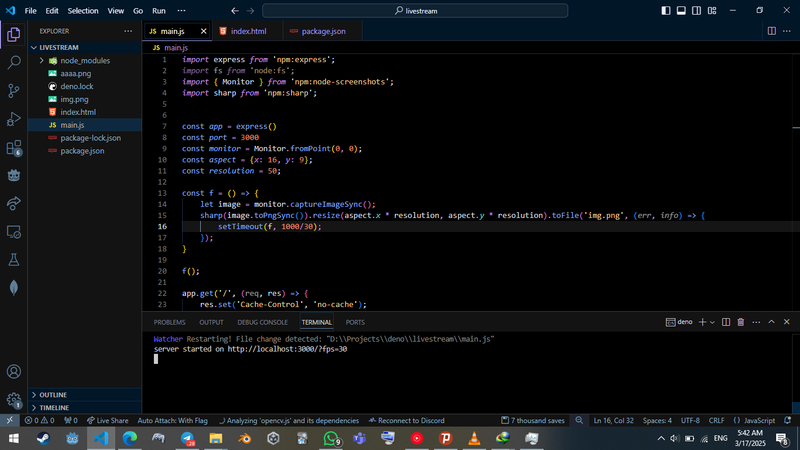
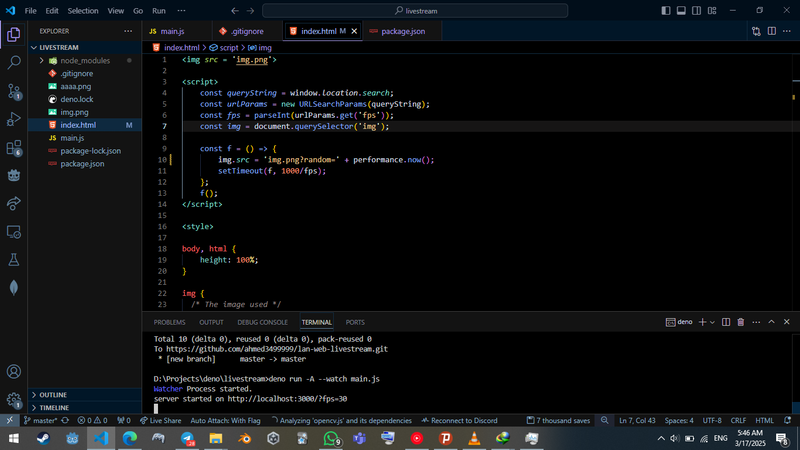
fixed updated image source in html to make it independent of ip

diff --git a/index.html b/index.html
@@ -7,7 +7,7 @@
     const img = document.querySelector('img');
     
     const f = () => {
-        img.src = 'http://10.90.0.241:3000/img.png?random=' + performance.now();
+        img.src = 'img.png?random=' + performance.now();
         setTimeout(f, 1000/fps);
     };
     f();
